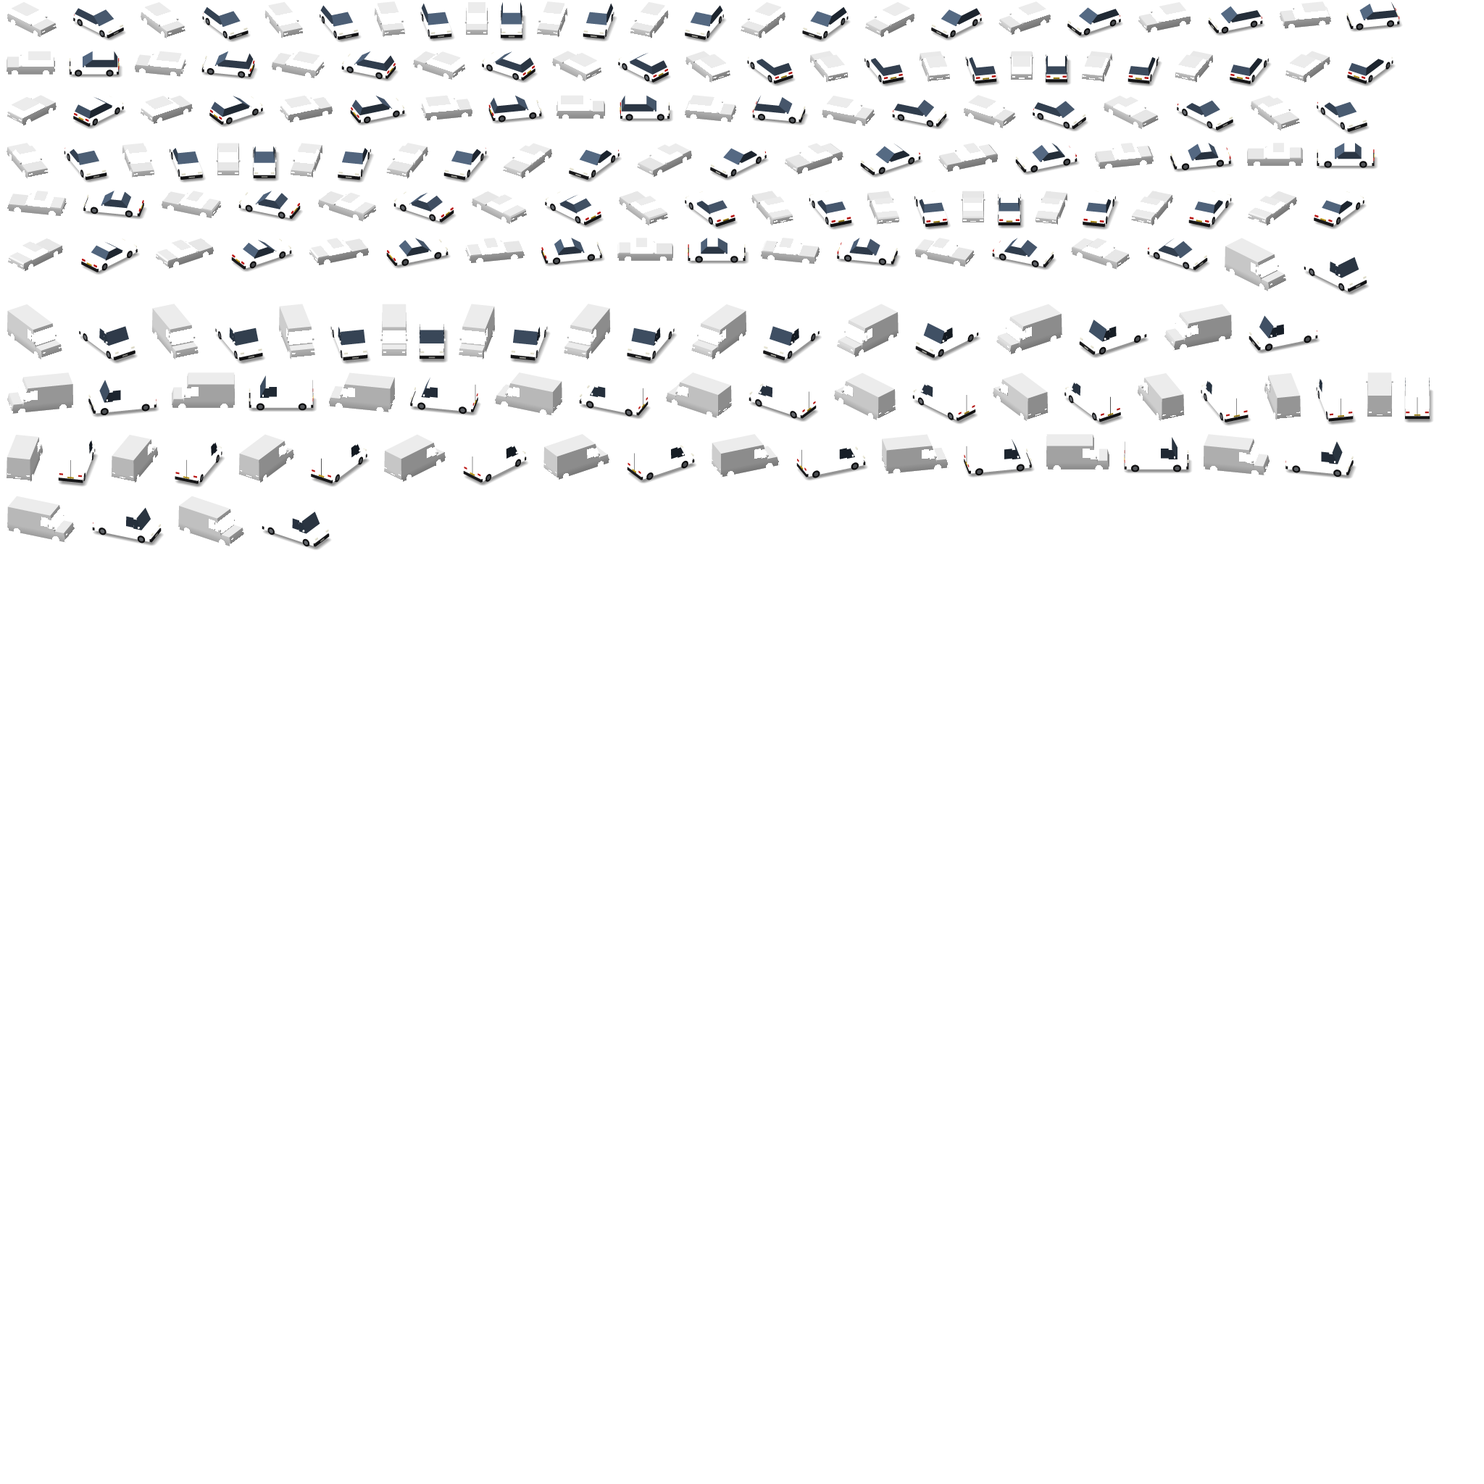
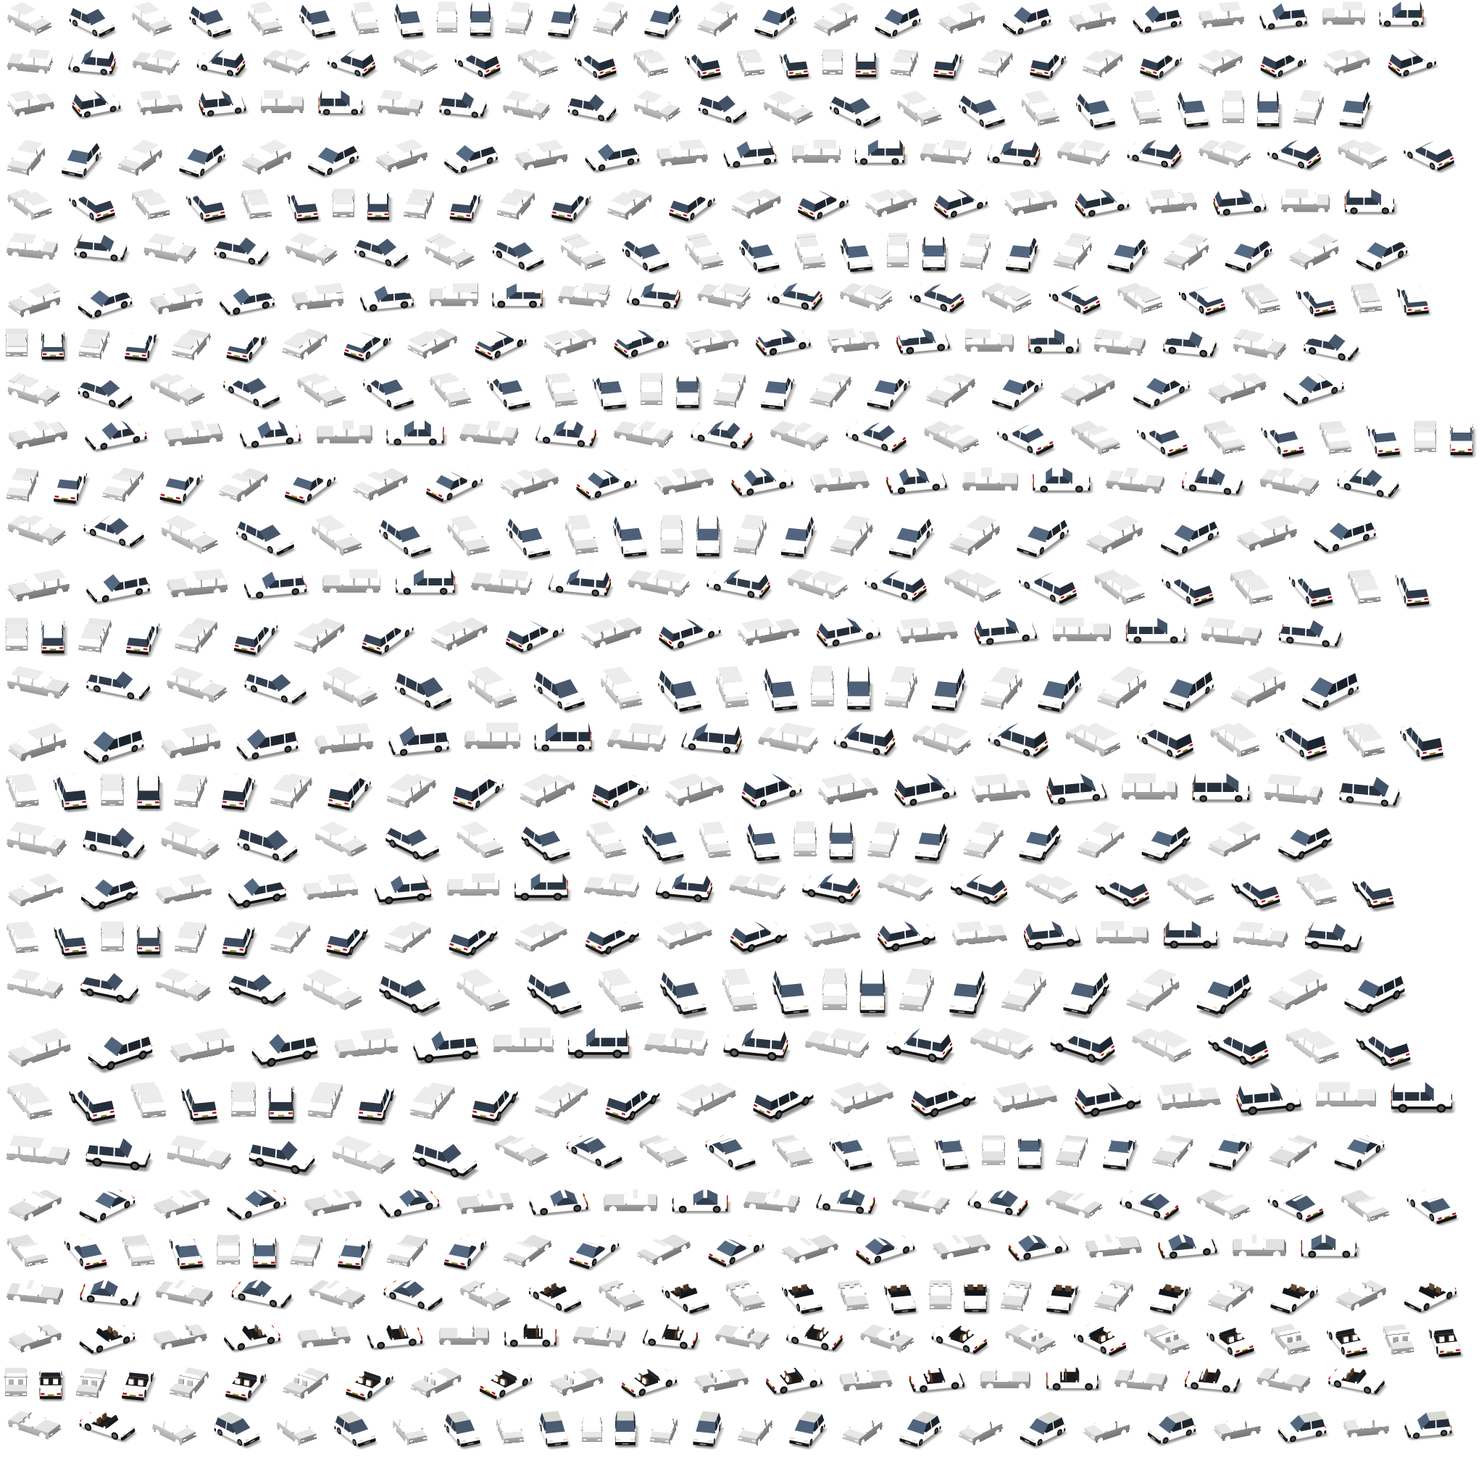
feat(cars): the fleet — eleven models and roof variants, by weight, in real-world paint

diff --git a/src/world/agents/cars/models.ts b/src/world/agents/cars/models.ts
@@ -17,7 +17,8 @@
 /** What a face is made of. `paint` is the tinted layer; the rest are baked in their own colours. */
 export type Mat =
   | "paint" | "glass" | "tyre" | "hub" | "trim" | "chrome" | "lamp" | "tail" | "indicator"
-  | "plate" | "rearPlate" | "grille" | "roof" | "livery" | "liveryAlt" | "light" | "bed";
+  | "plate" | "rearPlate" | "grille" | "roof" | "livery" | "liveryAlt" | "light" | "bed"
+  | "roofBlack" | "roofWhite" | "seat" | "interior";
 
 export type Faces = { side?: Mat; top?: Mat; front?: Mat; back?: Mat };
 
@@ -37,6 +38,8 @@ export type Wheel = { l: number; w: number; r: number; width: number };
 
 export type Model = {
   id: string;
+  /** Where the roof is, for what goes on it: its front and back, half width and height. */
+  roof?: { l0: number; l1: number; w: number; z: number };
   /** Length and width overall, metres: the game reads them for spacing and for the band. */
   length: number;
   width: number;
@@ -83,35 +86,140 @@ const wheels = (front: number, back: number, w: number, r = 0.31, width = 0.2): 
   { l: front, w, r, width }, { l: back, w, r, width },
 ];
 
+/**
+ * A GLASSHOUSE: the cabin from the waist `z0` to the roof `z1`, a raked screen
+ * (`inF`) and rear glass (`inB`), its sides drawn in (`inS`). Cut along its
+ * length at each pillar — `[where, how wide]`, inside the roof's span — into
+ * windows of glass and pillars of paint. Its roof is `roof`.
+ */
+function glasshouse(g: {
+  l0: number; l1: number; w: number; z0: number; z1: number; inF: number; inB: number; inS: number;
+  pillars?: [number, number][]; roof?: Mat;
+}): { slabs: Slab[]; roof: NonNullable<Model["roof"]> } {
+  const cuts = [g.l0];
+  for (const [at, wd] of g.pillars ?? []) cuts.push(at + wd / 2, at - wd / 2);
+  cuts.push(g.l1);
+  const slabs: Slab[] = [];
+  for (let k = 0; k + 1 < cuts.length; k++) {
+    const first = k === 0, last = k + 2 === cuts.length, pillar = k % 2 === 1;
+    slabs.push({
+      l0: cuts[k], l1: cuts[k + 1], w: g.w, z0: g.z0, z1: g.z1,
+      inF: first ? g.inF : 0, inB: last ? g.inB : 0, inS: g.inS,
+      mat: pillar ? "paint" : "glass", faces: { top: g.roof ?? "paint" },
+    });
+  }
+  return { slabs, roof: { l0: g.l0 - g.inF, l1: g.l1 + g.inB, w: g.w - g.inS, z: g.z1 } };
+}
+
+/** The lower body to the waist, its top edges eased. */
+const body = (l: number, w: number, z0: number, z1: number, inF = 0.12, inB = 0.06): Slab =>
+  ({ l0: l, l1: -l, w, z0, z1, inF, inB, inS: 0.03, mat: "paint" });
+
+/** Black plastic round the bottom of the sides and over the arches: an SUV's. */
+const cladding = (l: number, w: number, z: number): Slab => ({ l0: l - 0.05, l1: -l + 0.05, w: w + 0.012, z0: z - 0.12, z1: z + 0.12, mat: "trim" });
+
+/** A car from its parts: the body, the glasshouse, mirrors, ends and wheels. */
+function car(id: string, length: number, width: number, parts: {
+  body: Slab[]; house: ReturnType<typeof glasshouse>; mirrorAt: number; lampZ: number; wheels: Wheel[]; extra?: Slab[];
+  bumperZ?: number;
+}): Model {
+  const w = width / 2;
+  return {
+    id, length, width, roof: parts.house.roof,
+    slabs: [...parts.body, ...parts.house.slabs, ...mirrors(parts.mirrorAt, parts.house.roof.w + 0.08, parts.house.slabs[0].z0),
+      ...ends(length / 2, -length / 2, w, parts.lampZ, { bumperZ: parts.bumperZ }), ...(parts.extra ?? [])],
+    wheels: parts.wheels,
+  };
+}
+
 // ─── THE MODELS ──────────────────────────────────────────────────────────────
 
+/** A city car: short, tall for its length, a hatch straight down. */
+const cityCar = car("cityCar", 3.55, 1.64, {
+  body: [body(1.775, 0.82, 0.2, 0.84, 0.14, 0.04)],
+  house: glasshouse({ l0: 0.75, l1: -1.7, w: 0.8, z0: 0.84, z1: 1.5, inF: 0.72, inB: 0.16, inS: 0.12, pillars: [[-0.5, 0.1]] }),
+  mirrorAt: 0.62, lampZ: 0.62, wheels: wheels(1.15, -1.15, 0.74, 0.29, 0.18),
+});
+
 /** A five-door hatchback: a short bonnet, a cabin running nearly to the tail, an upright hatch. */
-const hatchback: Model = {
-  id: "hatchback", length: 4.0, width: 1.76,
-  slabs: [
-    // The body to the waist, its top edges eased.
-    { l0: 2.0, l1: -2.0, w: 0.88, z0: 0.2, z1: 0.86, inF: 0.12, inB: 0.05, inS: 0.03, mat: "paint" },
-    // The glasshouse: a raked screen, a near-upright hatch, a painted roof.
-    { l0: 0.95, l1: -1.92, w: 0.85, z0: 0.86, z1: 1.46, inF: 0.82, inB: 0.28, inS: 0.13, mat: "glass", faces: { top: "paint" } },
-    ...mirrors(0.82, 0.85, 0.86),
-    ...ends(2.0, -2.0, 0.88, 0.62),
-  ],
-  wheels: wheels(1.3, -1.28, 0.8),
-};
+const hatchback = car("hatchback", 4.0, 1.76, {
+  body: [body(2.0, 0.88, 0.2, 0.86, 0.12, 0.05)],
+  house: glasshouse({ l0: 0.95, l1: -1.92, w: 0.85, z0: 0.86, z1: 1.46, inF: 0.82, inB: 0.28, inS: 0.13, pillars: [[-0.45, 0.1]] }),
+  mirrorAt: 0.82, lampZ: 0.62, wheels: wheels(1.3, -1.28, 0.8),
+});
+
+/** A hot hatch: the hatchback lower, on bigger wheels, a spoiler over the hatch. */
+const hotHatch = car("hotHatch", 4.05, 1.8, {
+  body: [body(2.02, 0.9, 0.16, 0.8, 0.14, 0.05)],
+  house: glasshouse({ l0: 0.9, l1: -1.92, w: 0.86, z0: 0.8, z1: 1.36, inF: 0.84, inB: 0.32, inS: 0.15, pillars: [[-0.45, 0.1]] }),
+  mirrorAt: 0.78, lampZ: 0.56, bumperZ: 0.28, wheels: wheels(1.32, -1.28, 0.83, 0.33, 0.22),
+  extra: [{ l0: -1.45, l1: -2.02, w: 0.76, z0: 1.3, z1: 1.38, inB: 0.04, mat: "paint" }],
+});
 
 /** A saloon: a long bonnet, a cabin in the middle, a boot of its own. */
-const saloon: Model = {
-  id: "saloon", length: 4.65, width: 1.8,
-  slabs: [
-    { l0: 2.32, l1: -2.32, w: 0.9, z0: 0.2, z1: 0.82, inF: 0.14, inB: 0.1, inS: 0.03, mat: "paint" },
-    // The boot lid stands a little over the waist.
-    { l0: -1.3, l1: -2.28, w: 0.87, z0: 0.82, z1: 0.92, inB: 0.12, inS: 0.02, mat: "paint" },
-    { l0: 0.9, l1: -1.4, w: 0.86, z0: 0.82, z1: 1.42, inF: 0.8, inB: 0.62, inS: 0.13, mat: "glass", faces: { top: "paint" } },
-    ...mirrors(0.75, 0.86, 0.82),
-    ...ends(2.32, -2.32, 0.9, 0.6),
-  ],
-  wheels: wheels(1.45, -1.45, 0.82, 0.32),
-};
+const saloon = car("saloon", 4.65, 1.8, {
+  body: [body(2.32, 0.9, 0.2, 0.82, 0.14, 0.1), { l0: -1.3, l1: -2.28, w: 0.87, z0: 0.82, z1: 0.92, inB: 0.12, inS: 0.02, mat: "paint" }],
+  house: glasshouse({ l0: 0.9, l1: -1.4, w: 0.86, z0: 0.82, z1: 1.42, inF: 0.8, inB: 0.62, inS: 0.13, pillars: [[-0.2, 0.11]] }),
+  mirrorAt: 0.75, lampZ: 0.6, wheels: wheels(1.45, -1.45, 0.82, 0.32),
+});
+
+/** An estate: the saloon's front, its roof carried back to an upright tail. */
+const estate = car("estate", 4.8, 1.82, {
+  body: [body(2.4, 0.91, 0.2, 0.84, 0.14, 0.05)],
+  house: glasshouse({ l0: 0.95, l1: -2.32, w: 0.87, z0: 0.84, z1: 1.46, inF: 0.82, inB: 0.2, inS: 0.13, pillars: [[-0.2, 0.11], [-1.45, 0.16]] }),
+  mirrorAt: 0.8, lampZ: 0.62, wheels: wheels(1.5, -1.5, 0.83, 0.32),
+});
+
+/** A people carrier: a steep screen running into the bonnet, tall, three rows of windows. */
+const mpv = car("mpv", 4.6, 1.84, {
+  body: [body(2.3, 0.92, 0.24, 0.92, 0.22, 0.04)],
+  house: glasshouse({ l0: 1.45, l1: -2.24, w: 0.89, z0: 0.92, z1: 1.74, inF: 1.0, inB: 0.14, inS: 0.11, pillars: [[0.1, 0.1], [-1.2, 0.12]] }),
+  mirrorAt: 1.2, lampZ: 0.7, wheels: wheels(1.45, -1.45, 0.84, 0.32),
+});
+
+/** A small SUV: a hatchback stood up on bigger wheels, black cladding round its feet. */
+const smallSuv = car("smallSuv", 4.3, 1.82, {
+  body: [body(2.15, 0.91, 0.3, 1.0, 0.16, 0.06)],
+  house: glasshouse({ l0: 0.85, l1: -2.05, w: 0.88, z0: 1.0, z1: 1.62, inF: 0.75, inB: 0.3, inS: 0.13, pillars: [[-0.45, 0.11]] }),
+  mirrorAt: 0.72, lampZ: 0.78, bumperZ: 0.42, wheels: wheels(1.35, -1.35, 0.84, 0.36, 0.22),
+  extra: [cladding(2.15, 0.91, 0.38)],
+});
+
+/** A large SUV: square, tall and long, three windows a side. */
+const largeSuv = car("largeSuv", 4.95, 1.96, {
+  body: [body(2.47, 0.98, 0.36, 1.1, 0.12, 0.04)],
+  house: glasshouse({ l0: 1.0, l1: -2.4, w: 0.95, z0: 1.1, z1: 1.84, inF: 0.72, inB: 0.16, inS: 0.12, pillars: [[-0.15, 0.12], [-1.45, 0.14]] }),
+  mirrorAt: 0.85, lampZ: 0.86, bumperZ: 0.48, wheels: wheels(1.6, -1.55, 0.9, 0.4, 0.26),
+  extra: [cladding(2.47, 0.98, 0.44)],
+});
+
+/** A coupé: low and long-bonneted, its roof falling all the way to the tail. */
+const coupe = car("coupe", 4.5, 1.84, {
+  body: [body(2.25, 0.92, 0.17, 0.72, 0.22, 0.12)],
+  house: glasshouse({ l0: 0.55, l1: -1.45, w: 0.86, z0: 0.72, z1: 1.28, inF: 0.82, inB: 0.85, inS: 0.17 }),
+  mirrorAt: 0.42, lampZ: 0.5, bumperZ: 0.26, wheels: wheels(1.42, -1.38, 0.84, 0.33, 0.22),
+});
+
+/** A convertible, roof down: a screen frame, two seats in a dark cockpit, a deck behind. */
+const convertible: Model = (() => {
+  const L = 2.1, W = 0.89;
+  return {
+    id: "convertible", length: 4.2, width: 1.78,
+    slabs: [
+      { l0: L, l1: 0.5, w: W, z0: 0.18, z1: 0.78, inF: 0.2, inS: 0.03, mat: "paint" },
+      { l0: 0.5, l1: -1.0, w: W, z0: 0.18, z1: 0.72, inS: 0.03, mat: "paint", faces: { top: "interior" } },
+      { l0: -1.0, l1: -L, w: W, z0: 0.18, z1: 0.8, inB: 0.12, inS: 0.03, mat: "paint" },
+      // The windscreen in its frame.
+      { l0: 0.55, l1: 0.42, w: 0.82, z0: 0.78, z1: 1.18, inF: 0.28, inS: 0.06, mat: "glass", faces: { top: "trim" } },
+      // Seat backs, and the roll hoops behind them.
+      ...[1, -1].map((s): Slab => ({ l0: -0.45, l1: -0.62, w: 0.24, wc: s * 0.4, z0: 0.72, z1: 1.18, inF: 0.06, mat: "seat" })),
+      ...[1, -1].map((s): Slab => ({ l0: -0.72, l1: -0.86, w: 0.2, wc: s * 0.4, z0: 0.8, z1: 1.22, inB: 0.06, mat: "paint" })),
+      ...mirrors(0.4, 0.86, 0.78),
+      ...ends(L, -L, W, 0.54, { bumperZ: 0.28 }),
+    ],
+    wheels: wheels(1.35, -1.3, 0.82, 0.33, 0.21),
+  };
+})();
 
 /** A panel van: a short nose, a tall box of a body, glass only in the cab. */
 const panelVan: Model = {
@@ -124,7 +232,7 @@ const panelVan: Model = {
     // The windscreen and cab windows, standing just proud of the box.
     { l0: 1.72, l1: 1.0, w: 1.0, z0: 1.2, z1: 2.25, inF: 0.48, inS: 0.04, mat: "glass", faces: { top: "paint", back: "paint" } },
     { l0: 1.0, l1: 0.35, w: 1.005, z0: 1.3, z1: 2.2, inS: 0.04, mat: "glass", faces: { top: "paint", front: "paint", back: "paint" } },
-    // Rear doors' seam and handles, dark.
+    // Rear doors' seam, dark.
     { l0: -2.6, l1: -2.62, w: 0.015, z0: 0.4, z1: 2.3, mat: "trim" },
     ...mirrors(1.55, 1.0, 1.35),
     ...ends(2.6, -2.6, 1.0, 0.82, { bumperZ: 0.4, lampW: 0.3 }),
@@ -132,5 +240,46 @@ const panelVan: Model = {
   wheels: wheels(1.7, -1.75, 0.9, 0.34, 0.22),
 };
 
-export const MODELS: readonly Model[] = [hatchback, saloon, panelVan];
+// ─── VARIANTS: the same car with something on its roof, or its roof another colour ──
+
+/** Roof rails along each edge of the roof. */
+const rails = (m: Model): Slab[] => {
+  const r = m.roof!;
+  return [1, -1].map((s) => ({ l0: r.l0 - 0.05, l1: r.l1 + 0.05, w: 0.035, wc: s * (r.w - 0.06), z0: r.z, z1: r.z + 0.08, mat: "trim" as Mat }));
+};
+/** A roof box on its rails: long, low and rounded. */
+const roofBox = (m: Model): Slab => {
+  const r = m.roof!, mid = (r.l0 + r.l1) / 2;
+  return { l0: mid + 0.75, l1: mid - 0.85, w: Math.min(0.42, r.w - 0.15), z0: r.z + 0.08, z1: r.z + 0.42, inF: 0.3, inB: 0.12, inS: 0.06, mat: "roofBlack" };
+};
+const variant = (m: Model, tag: string, add: Slab[], roof?: Mat): Model => ({
+  ...m, id: `${m.id}+${tag}`,
+  slabs: [...m.slabs.map((s) => (roof && s.faces?.top === "paint" && s.z1 === m.roof?.z ? { ...s, faces: { ...s.faces, top: roof } } : s)), ...add],
+});
+
+const CARS = [cityCar, hatchback, hotHatch, saloon, estate, mpv, smallSuv, largeSuv, coupe, convertible];
+const VARIANTS: Model[] = [
+  variant(cityCar, "whiteRoof", [], "roofWhite"), variant(cityCar, "blackRoof", [], "roofBlack"),
+  variant(hatchback, "rails", rails(hatchback)), variant(hatchback, "blackRoof", [], "roofBlack"),
+  variant(estate, "rails", rails(estate)), variant(estate, "box", [...rails(estate), roofBox(estate)]),
+  variant(mpv, "rails", rails(mpv)),
+  variant(smallSuv, "rails", rails(smallSuv)), variant(smallSuv, "blackRoof", [], "roofBlack"),
+  variant(largeSuv, "rails", rails(largeSuv)), variant(largeSuv, "box", [...rails(largeSuv), roofBox(largeSuv)]),
+];
+
+export const MODELS: readonly Model[] = [...CARS, ...VARIANTS, panelVan];
 export const modelById = new Map(MODELS.map((m) => [m.id, m]));
+
+/**
+ * HOW OFTEN EACH CAR IS SEEN, as a town's would be: hatchbacks and small SUVs
+ * most, the fun ones rarely. A variant takes a share of its model's.
+ */
+export const CAR_WEIGHTS: Readonly<Record<string, number>> = {
+  cityCar: 6, "cityCar+whiteRoof": 2, "cityCar+blackRoof": 2,
+  hatchback: 14, "hatchback+rails": 4, "hatchback+blackRoof": 3, hotHatch: 3,
+  saloon: 12, estate: 6, "estate+rails": 3, "estate+box": 1.5,
+  mpv: 4, "mpv+rails": 2,
+  smallSuv: 10, "smallSuv+rails": 3, "smallSuv+blackRoof": 2,
+  largeSuv: 5, "largeSuv+rails": 2, "largeSuv+box": 1,
+  coupe: 3, convertible: 2,
+};

diff --git a/src/world/agents/cars/cars.test.ts b/src/world/agents/cars/cars.test.ts
@@ -3,7 +3,7 @@ import { describe, expect, test } from "bun:test";
 import { HEIGHT_UNIT, HH, HW } from "../../iso";
 import { VAN_COLOUR } from "../town";
 import { baseCorners, headingIndex, modelFor, pitchMatrix } from "./car-sheet";
-import { MODELS, TILES_PER_M, type Model } from "./models";
+import { CAR_WEIGHTS, MODELS, TILES_PER_M, type Model } from "./models";
 import { bakeFrame } from "./raster";
 
 const box: Model = {
@@ -55,8 +55,12 @@ describe("bakeFrame", () => {
 describe("in the game", () => {
   test("a mover keeps its model, and vans are vans", () => {
     for (let id = 0; id < 50; id++) expect(modelFor({ id, kind: "car", colour: 0 })).toBe(modelFor({ id, kind: "car", colour: 0 }));
-    const seen = new Set(Array.from({ length: 200 }, (_, id) => modelFor({ id, kind: "car", colour: 0 })));
-    expect(seen).toEqual(new Set(["hatchback", "saloon"]));
+    const picks = Array.from({ length: 4000 }, (_, id) => modelFor({ id, kind: "car", colour: 0 }));
+    // Every car model shows up, and the common ones far more often than the rare.
+    expect(new Set(picks)).toEqual(new Set(Object.keys(CAR_WEIGHTS)));
+    const count = (id: string) => picks.filter((p) => p === id).length;
+    expect(count("hatchback")).toBeGreaterThan(count("largeSuv+box") * 5);
+    for (const id of new Set(picks)) expect(MODELS.some((m) => m.id === id)).toBe(true);
     expect(modelFor({ id: 3, kind: "truck", colour: VAN_COLOUR })).toBe("panelVan");
     expect(modelFor({ id: 3, kind: "person", colour: 0 })).toBeNull();
   });

diff --git a/src/world/agents/cars/car-sheet.ts b/src/world/agents/cars/car-sheet.ts
@@ -11,7 +11,7 @@ import { Assets, Matrix, Rectangle, Texture } from "pixi.js";
 
 import { HEIGHT_UNIT, HH, HW } from "../../iso";
 import { VAN_COLOUR, type Mover } from "../town";
-import { TILES_PER_M } from "./models";
+import { CAR_WEIGHTS, TILES_PER_M } from "./models";
 import { CAR_GAP, type CarSheet } from "./sheet-format";
 
 const BASE = "/isometric_assets/derived";
@@ -55,9 +55,12 @@ export async function loadCarSprites(): Promise<CarSprites> {
 const ofId = <T>(id: number, salt: number, list: readonly T[]) =>
   list[Math.abs(Math.imul(id ^ salt, 0x9e3779b1) >>> 7) % list.length];
 
+/** Every car model, each as many times as its weight in halves: as common as on real roads. */
+const CAR_PICKS = Object.entries(CAR_WEIGHTS).flatMap(([id, w]) => Array<string>(Math.round(w * 2)).fill(id));
+
 /** Which baked model a mover is drawn as, or null for one the sheet has no model of yet. */
 export function modelFor(m: Pick<Mover, "id" | "kind" | "colour">): string | null {
-  if (m.kind === "car") return ofId(m.id, 0x51ed, ["hatchback", "hatchback", "saloon"]);
+  if (m.kind === "car") return ofId(m.id, 0x51ed, CAR_PICKS);
   if (m.kind === "truck" && m.colour === VAN_COLOUR) return "panelVan";
   return null;
 }

diff --git a/dev/preview-cars.ts b/dev/preview-cars.ts
@@ -8,14 +8,14 @@ import { writeFileSync } from "node:fs";
 import { encodePng } from "./png-min.ts";
 import { MODELS } from "../src/world/agents/cars/models.ts";
 import { bakeFrame } from "../src/world/agents/cars/raster.ts";
-const RES = 6, HEADS = [0, 4, 8, 12, 16, 20, 24, 28], CELL = 260;
-const tints = [[0.75, 0.12, 0.1], [0.18, 0.36, 0.62], [0.92, 0.92, 0.9]];
+const RES = Number(process.argv[3] ?? 4), HEADS = [0, 4, 8, 12, 16, 20, 24, 28], CELL = Math.round(43 * RES);
+const tints = [[0.66, 0.13, 0.1], [0.18, 0.33, 0.6], [0.92, 0.92, 0.9], [0.42, 0.44, 0.46], [0.2, 0.36, 0.24], [0.85, 0.7, 0.2]];
 const W = CELL * HEADS.length, H = CELL * MODELS.length;
 const px = new Uint8Array(W * H * 4);
 for (let i = 0; i < W * H; i++) { px[i * 4] = 92; px[i * 4 + 1] = 94; px[i * 4 + 2] = 98; px[i * 4 + 3] = 255; }
 MODELS.forEach((m, r) => HEADS.forEach((h, c) => {
   const b = bakeFrame(m, (h / 32) * Math.PI * 2, RES);
-  const t = tints[r % 3];
+  const t = tints[r % tints.length];
   const bx = c * CELL + CELL / 2 - b.ox, by = r * CELL + CELL / 2 - b.oy;
   for (let y = 0; y < b.paint.h; y++) for (let x = 0; x < b.paint.w; x++) {
     const X = bx + x, Y = by + y; if (X < 0 || Y < 0 || X >= W || Y >= H) continue;

diff --git a/src/world/agents/town.ts b/src/world/agents/town.ts
@@ -192,7 +192,12 @@ const START_CLEAR = 1;
 /** How far beyond the rim a car going off the map drives before it is gone. */
 const OFF_MAP = 0.7;
 
-const CAR_COLOURS = [0xc0392b, 0x2e6fb5, 0xf2f0ea, 0xe8b931, 0x3f8f4f, 0x7c8691, 0x2b2b2b];
+/** Car paint, as often as it is on real roads: mostly white, black, grey and silver. */
+const CAR_COLOURS = ([
+  [0xf2f0ea, 14], [0xe4e6e3, 6], [0x26282b, 12], [0x3b3e42, 5], [0x7c8691, 9], [0x5a6068, 5], [0xb8bec4, 10],
+  [0x2e6fb5, 5], [0x1f3a66, 4], [0x7fa6c9, 1], [0xc0392b, 6], [0x7a1f24, 2], [0x3f8f4f, 1], [0x24452f, 1],
+  [0xcdbb98, 2], [0x6b4a32, 1], [0xe8b931, 1], [0xe0702a, 1],
+] as const).flatMap(([c, n]) => Array<number>(n).fill(c));
 const SHIRTS = [0xd35454, 0x4a7fc1, 0xe6c35c, 0x5aa36b, 0x9b6bc2, 0xe08a3c, 0xf0f0f0];
 
 /** A number in [0, 1), the next in the town's own sequence. */

diff --git a/src/world/agents/cars/raster.ts b/src/world/agents/cars/raster.ts
@@ -34,6 +34,7 @@ const COLOUR: Record<Mat, [number, number, number]> = {
   lamp: [0.96, 0.95, 0.88], tail: [0.78, 0.1, 0.09], indicator: [0.95, 0.55, 0.1],
   plate: [0.94, 0.94, 0.9], rearPlate: [0.98, 0.8, 0.16],
   livery: [0.98, 0.84, 0.1], liveryAlt: [0.12, 0.35, 0.75], light: [0.25, 0.45, 0.95], bed: [0.36, 0.37, 0.4],
+  roofBlack: [0.1, 0.1, 0.11], roofWhite: [0.92, 0.92, 0.9], seat: [0.5, 0.36, 0.25], interior: [0.12, 0.11, 0.11],
 };
 const PAINTED: ReadonlySet<Mat> = new Set(["paint"]);
 /** Lit from within: they barely take the light. */

diff --git a/README.md b/README.md
@@ -69,7 +69,7 @@ The town (`world/play/company-map.tsx`): buildings need **road frontage**; no la
 
 ★ Wonders: a bonus for good (headcounts interns · vibe · 10x).
 
-- **Seaports** (`boats/traffic.ts`): three tiers, paid per call. **Town life** (`agents/town.ts`): traffic, a 10-minute day. **Vehicles are baked** from low-poly models in metres (`agents/cars/`): a software rasteriser (`raster.ts`, z-buffered, lit from the left, 4×4 samples) bakes 32 headings into a sheet; in game a vehicle is two sprites, the paint tinted and the trim over it, sheared on ramps (`car-sheet.ts`); `?cars=boxes` draws the old boxes. Plan: `plans/baked-cars.md`. **Leaders on the map** (`agents/leaders.ts`) boost their workplace's desks.
+- **Seaports** (`boats/traffic.ts`): three tiers, paid per call. **Town life** (`agents/town.ts`): traffic, a 10-minute day. **Vehicles are baked** from low-poly models in metres (`agents/cars/`): a software rasteriser (`raster.ts`, z-buffered, lit from the left, 4×4 samples) bakes 32 headings of 22 looks (11 models + roof variants, picked by weight) into a sheet; in game a vehicle is two sprites, the paint tinted and the trim over it, sheared on ramps (`car-sheet.ts`); `?cars=boxes` draws the old boxes. Plan: `plans/baked-cars.md`. **Leaders on the map** (`agents/leaders.ts`) boost their workplace's desks.
 - **At a sale** (`projects/town-worth.ts`): the town adds up to +50% Equity. Run and editor maps save apart (`world-run`, `world-map`).
 
 ## Tech stack

diff --git a/plans/baked-cars.md b/plans/baked-cars.md
@@ -1,6 +1,6 @@
 # Cars baked from models: a town's worth of variety
 
-Status: **phase 1 built** (2026-11-09): hatchback, saloon and panel van baked and in the game. Decided: colour by tint, a base sheet plus close pages, new kinds later, headlights left for later.
+Status: **phases 1–2 built** (2026-11-09): eleven car models plus roof variants (22 looks, 3 pages), picked by weight; a weighted real-world paint palette. Choice by place (vans by works, SUVs in rich districts) is deferred. Decided: colour by tint, a base sheet plus close pages, new kinds later, headlights left for later.
 
 ## Why
 
